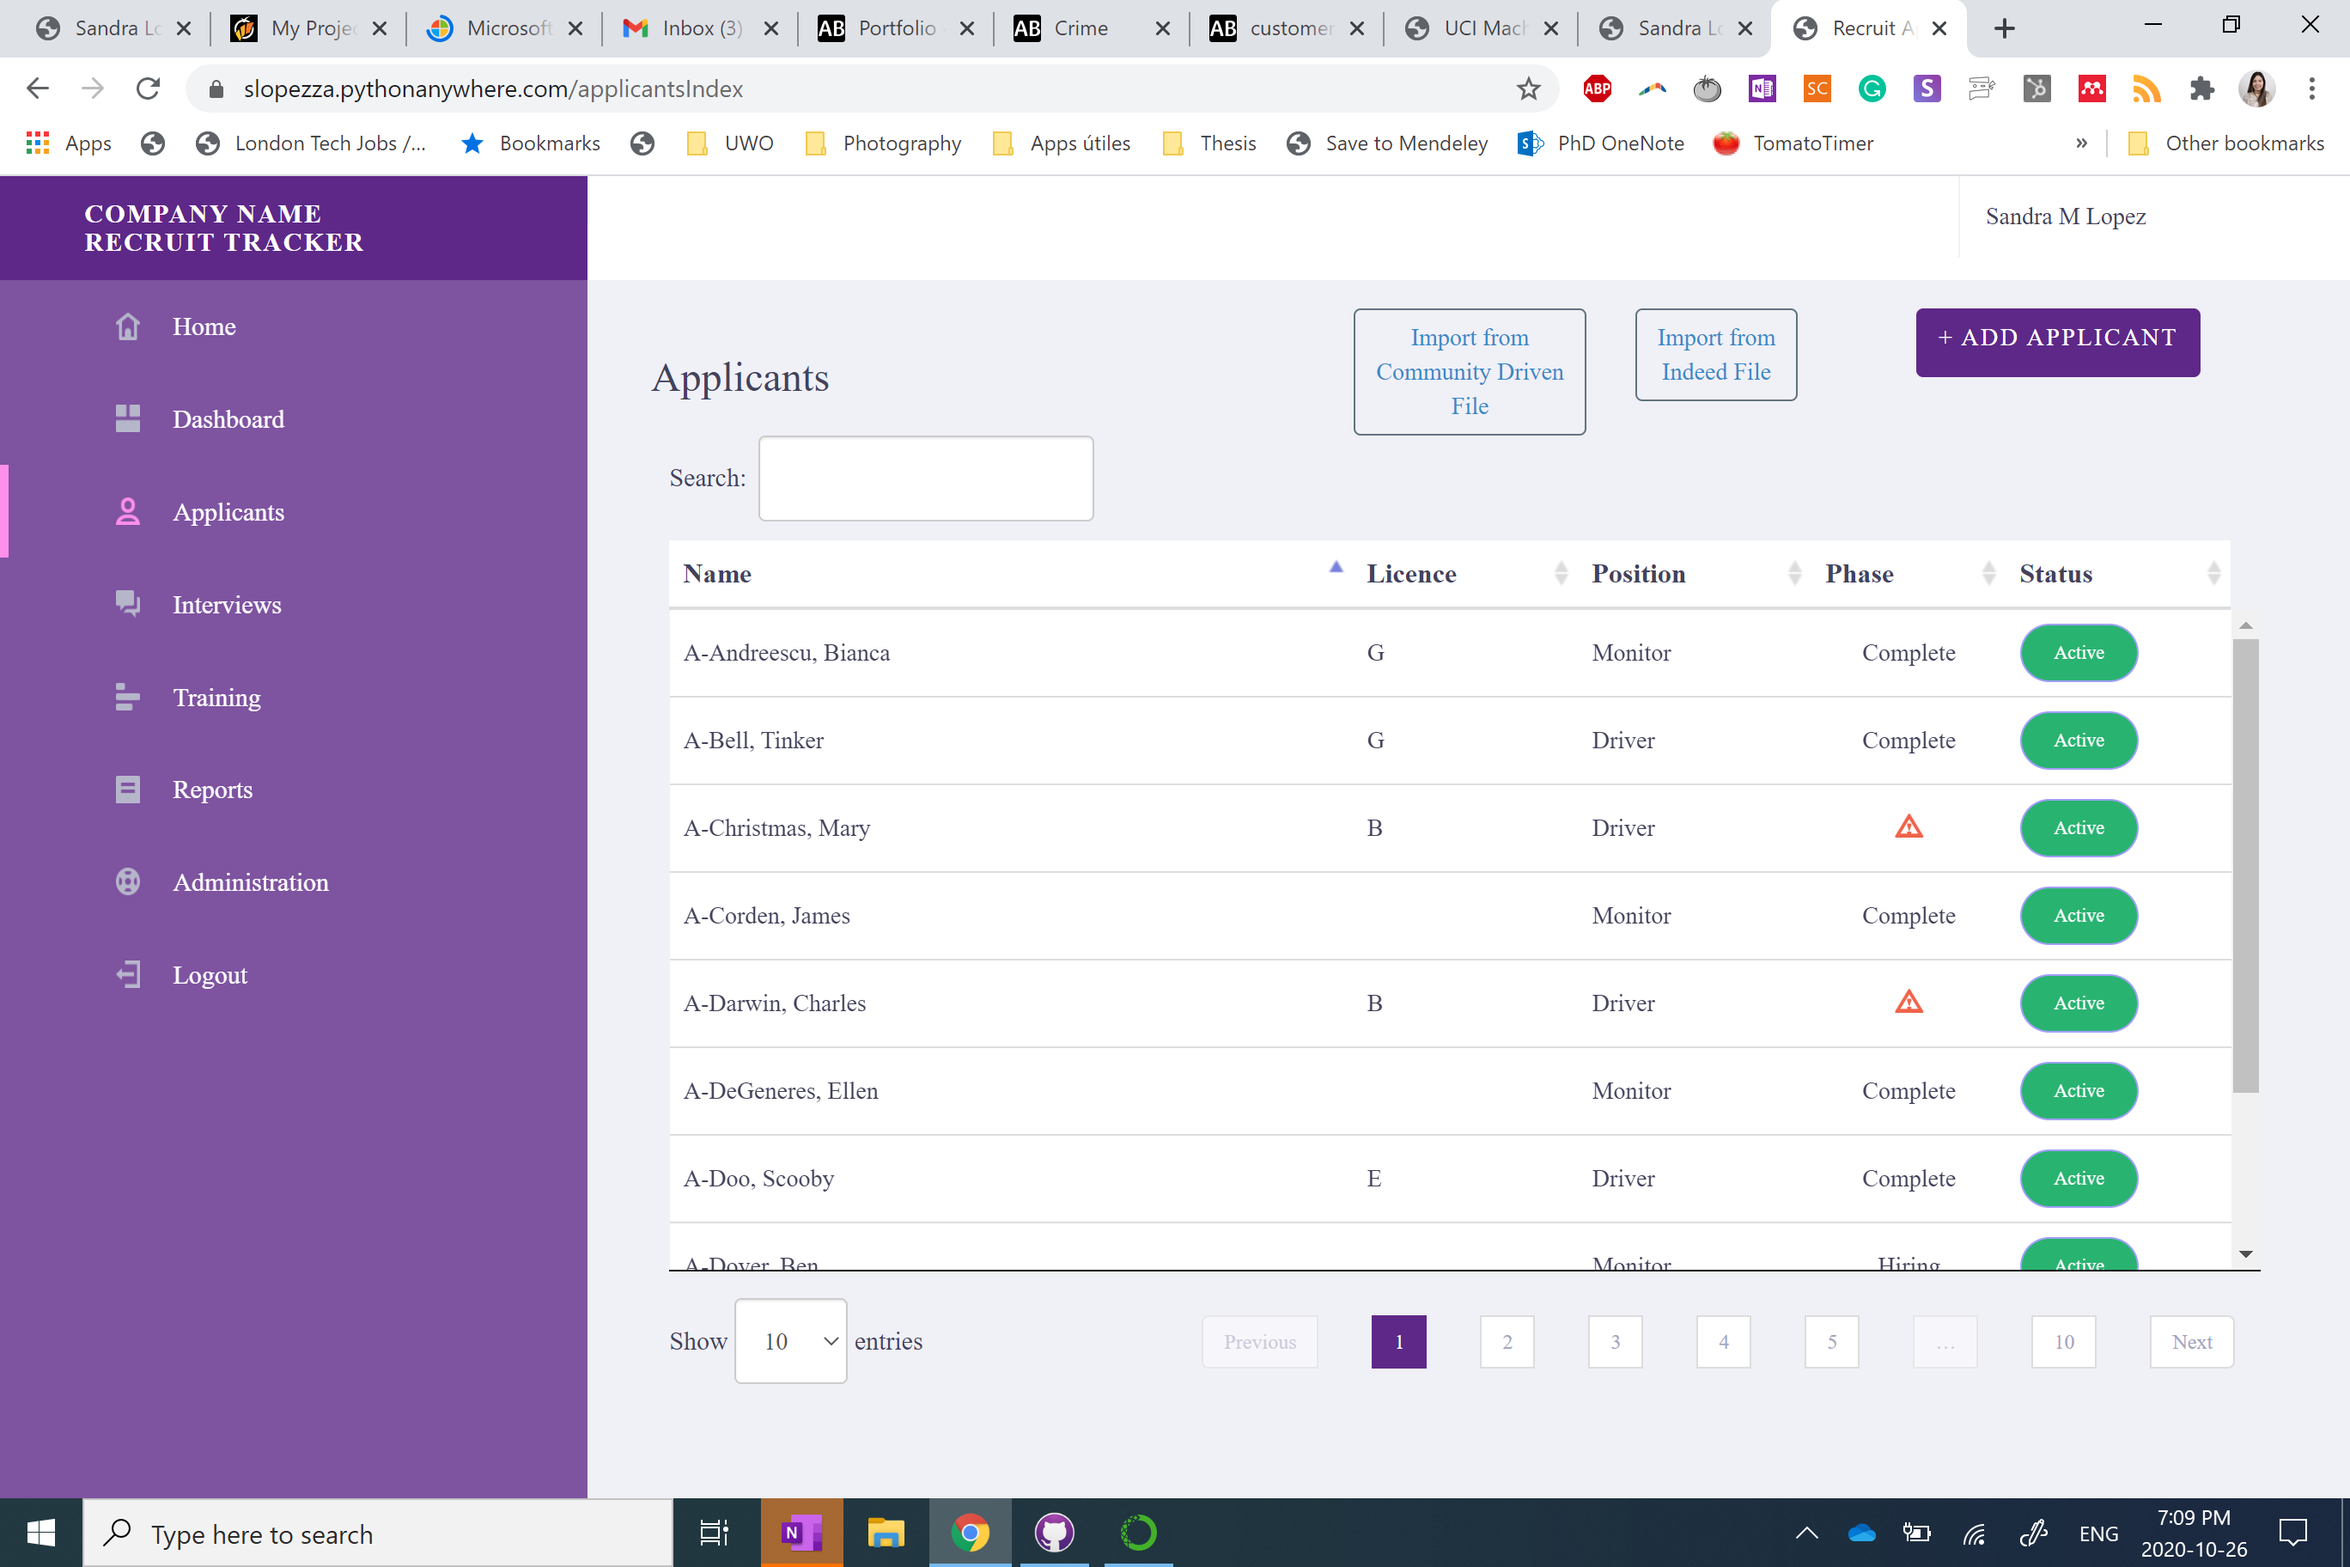
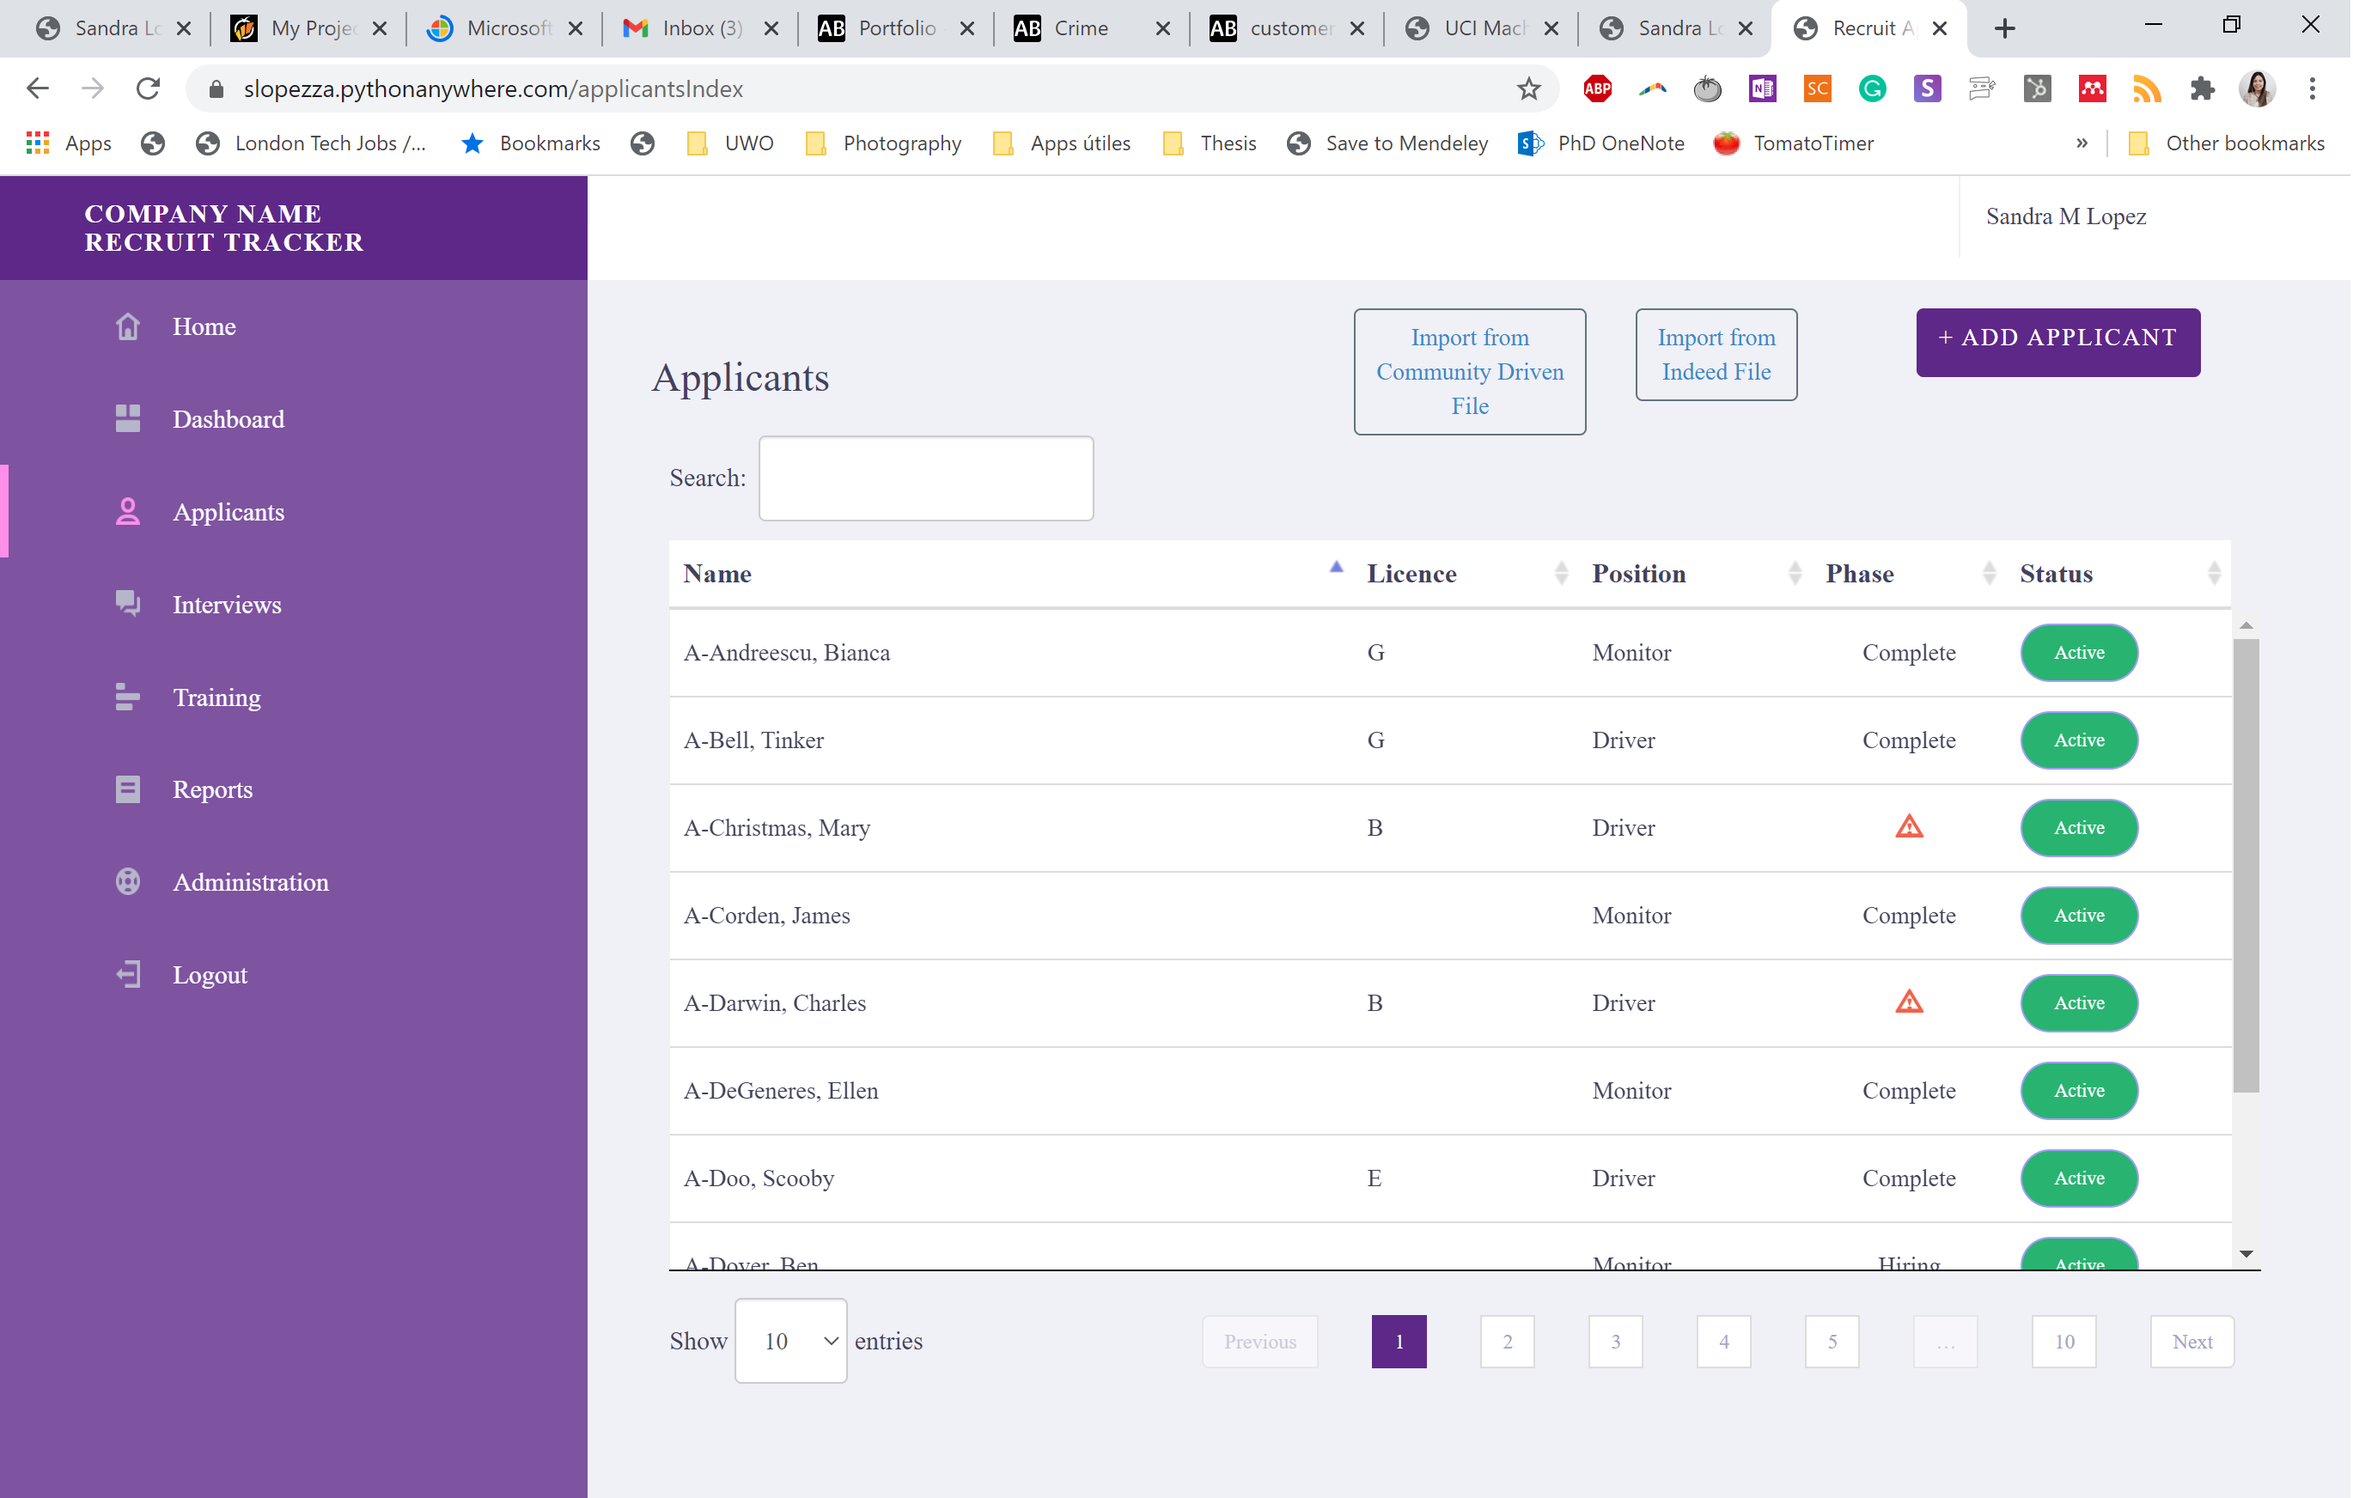
Images for Recruit App were modified

diff --git a/app/templates/portfolio_RecruitApp.html b/app/templates/portfolio_RecruitApp.html
@@ -62,7 +62,34 @@
         <div class="card" style="width: 18rem;">
           <img src="{{ url_for('static', filename='images/RecruitApp/Recruit_01.png') }}" class="card-img-top" alt="...">
           <div class="card-body">
-            <p class="card-text">Nultiple users login with different roles</p>
+            <p class="card-text">Multiple users login with different roles</p>
+          </div>
+        </div>
+      </div>
+
+      <div class="col-lg-3 mb-5 mt-5">
+        <div class="card" style="width: 18rem;">
+          <img src="{{ url_for('static', filename='images/RecruitApp/Recruit_02.png') }}" class="card-img-top" alt="...">
+          <div class="card-body">
+            <p class="card-text">Multiple users login with different roles</p>
+          </div>
+        </div>
+      </div>
+
+      <div class="col-lg-3 mb-5 mt-5">
+        <div class="card" style="width: 18rem;">
+          <img src="{{ url_for('static', filename='images/RecruitApp/Recruit_03.png') }}" class="card-img-top" alt="...">
+          <div class="card-body">
+            <p class="card-text">Multiple users login with different roles</p>
+          </div>
+        </div>
+      </div>
+
+      <div class="col-lg-3 mb-5 mt-5">
+        <div class="card" style="width: 18rem;">
+          <img src="{{ url_for('static', filename='images/RecruitApp/Recruit_04.png') }}" class="card-img-top" alt="...">
+          <div class="card-body">
+            <p class="card-text">Multiple users login with different roles</p>
           </div>
         </div>
       </div>
